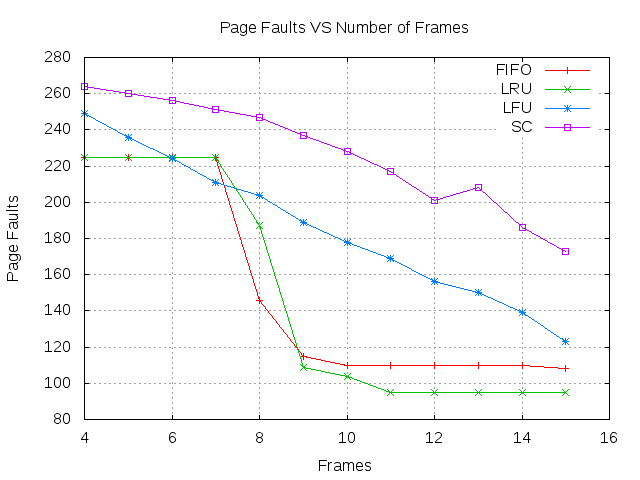
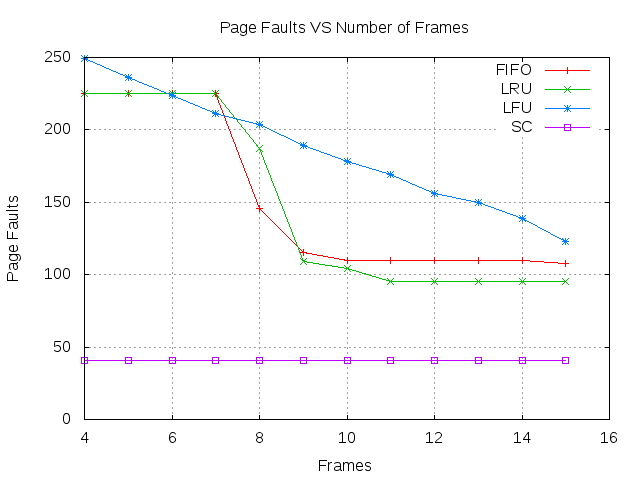
Changed second chance algo

diff --git a/ass8/page.cpp b/ass8/page.cpp
@@ -40,47 +40,7 @@ class naivePriority{
       }
     }
 };
-int secondChance(int n_frames, int ref[],int size){
-  int result=0;
-  map<int,int> pages;
-  map<int,int>::iterator it;
-  int i;
-  int break_flag=0;
-  for (i = 0; i < size; ++i){
-    it=pages.find(ref[i]);
-    if(it==pages.end()){
-      //page fault
-      result++;
-      break_flag=0;
-      /*printf("\n%d %d page fault",i,ref[i]);*/
-      if(pages.size()==n_frames){
-        for(it=pages.begin();it!=pages.end();it++){
-          if(it->second==0){
-            break_flag=1;
-            pages.erase(it);
-            break;
-          }else{
-            it->second = 0;
-            continue;
-          }
-        }
-        //All are 1s. Reiterating the pages to replace
-        if(break_flag == 0){
-          it=pages.begin();
-          //it->second is guaranteed to be zero
-          pages.erase(it);
-        }
-        /*printf(" %d",it->first);*/
-        pages[ref[i]]=0;
-      }else{
-        pages[ref[i]]=0;
-      }
-    }else{
-      pages[ref[i]]=1;
-    }
-  }
-  return result;
-}
+
 
 int LFU(int n_frames, int ref[], int size){
   int result=0;
@@ -165,6 +125,43 @@ int FIFO(int n_frames, int ref[], int size){
         pageq.push(ref[i]);
         page_set.insert(ref[i]);
       }
+    }
+  }
+  return result;
+}
+
+int secondChance(int n_frames, int ref[], int size){
+  int result=0;
+  queue<int> pageq;
+  map<int,int> page_ref;
+  map<int,int>::iterator it;
+  int popped;
+  int i;
+  for (i = 0; i < size; ++i){
+    it=page_ref.find(ref[i]);
+    if(it==page_ref.end()){
+      result++;
+      /*printf("\n%d %d page fault",i,ref[i]);*/
+      if(pageq.size()==n_frames){
+        while(1){
+          //page fault replace
+          popped=pageq.front();
+          pageq.pop();
+          if(page_ref[popped]==0){
+            break;
+          }
+          pageq.push(popped);
+          page_ref[popped]=0;
+        }
+        pageq.push(ref[i]);
+        page_ref[ref[i]]=0;
+      }else{
+        //just push
+        pageq.push(ref[i]);
+        page_ref[ref[i]]=0;
+      }
+    }else{
+      page_ref[ref[i]]=1;
     }
   }
   return result;
